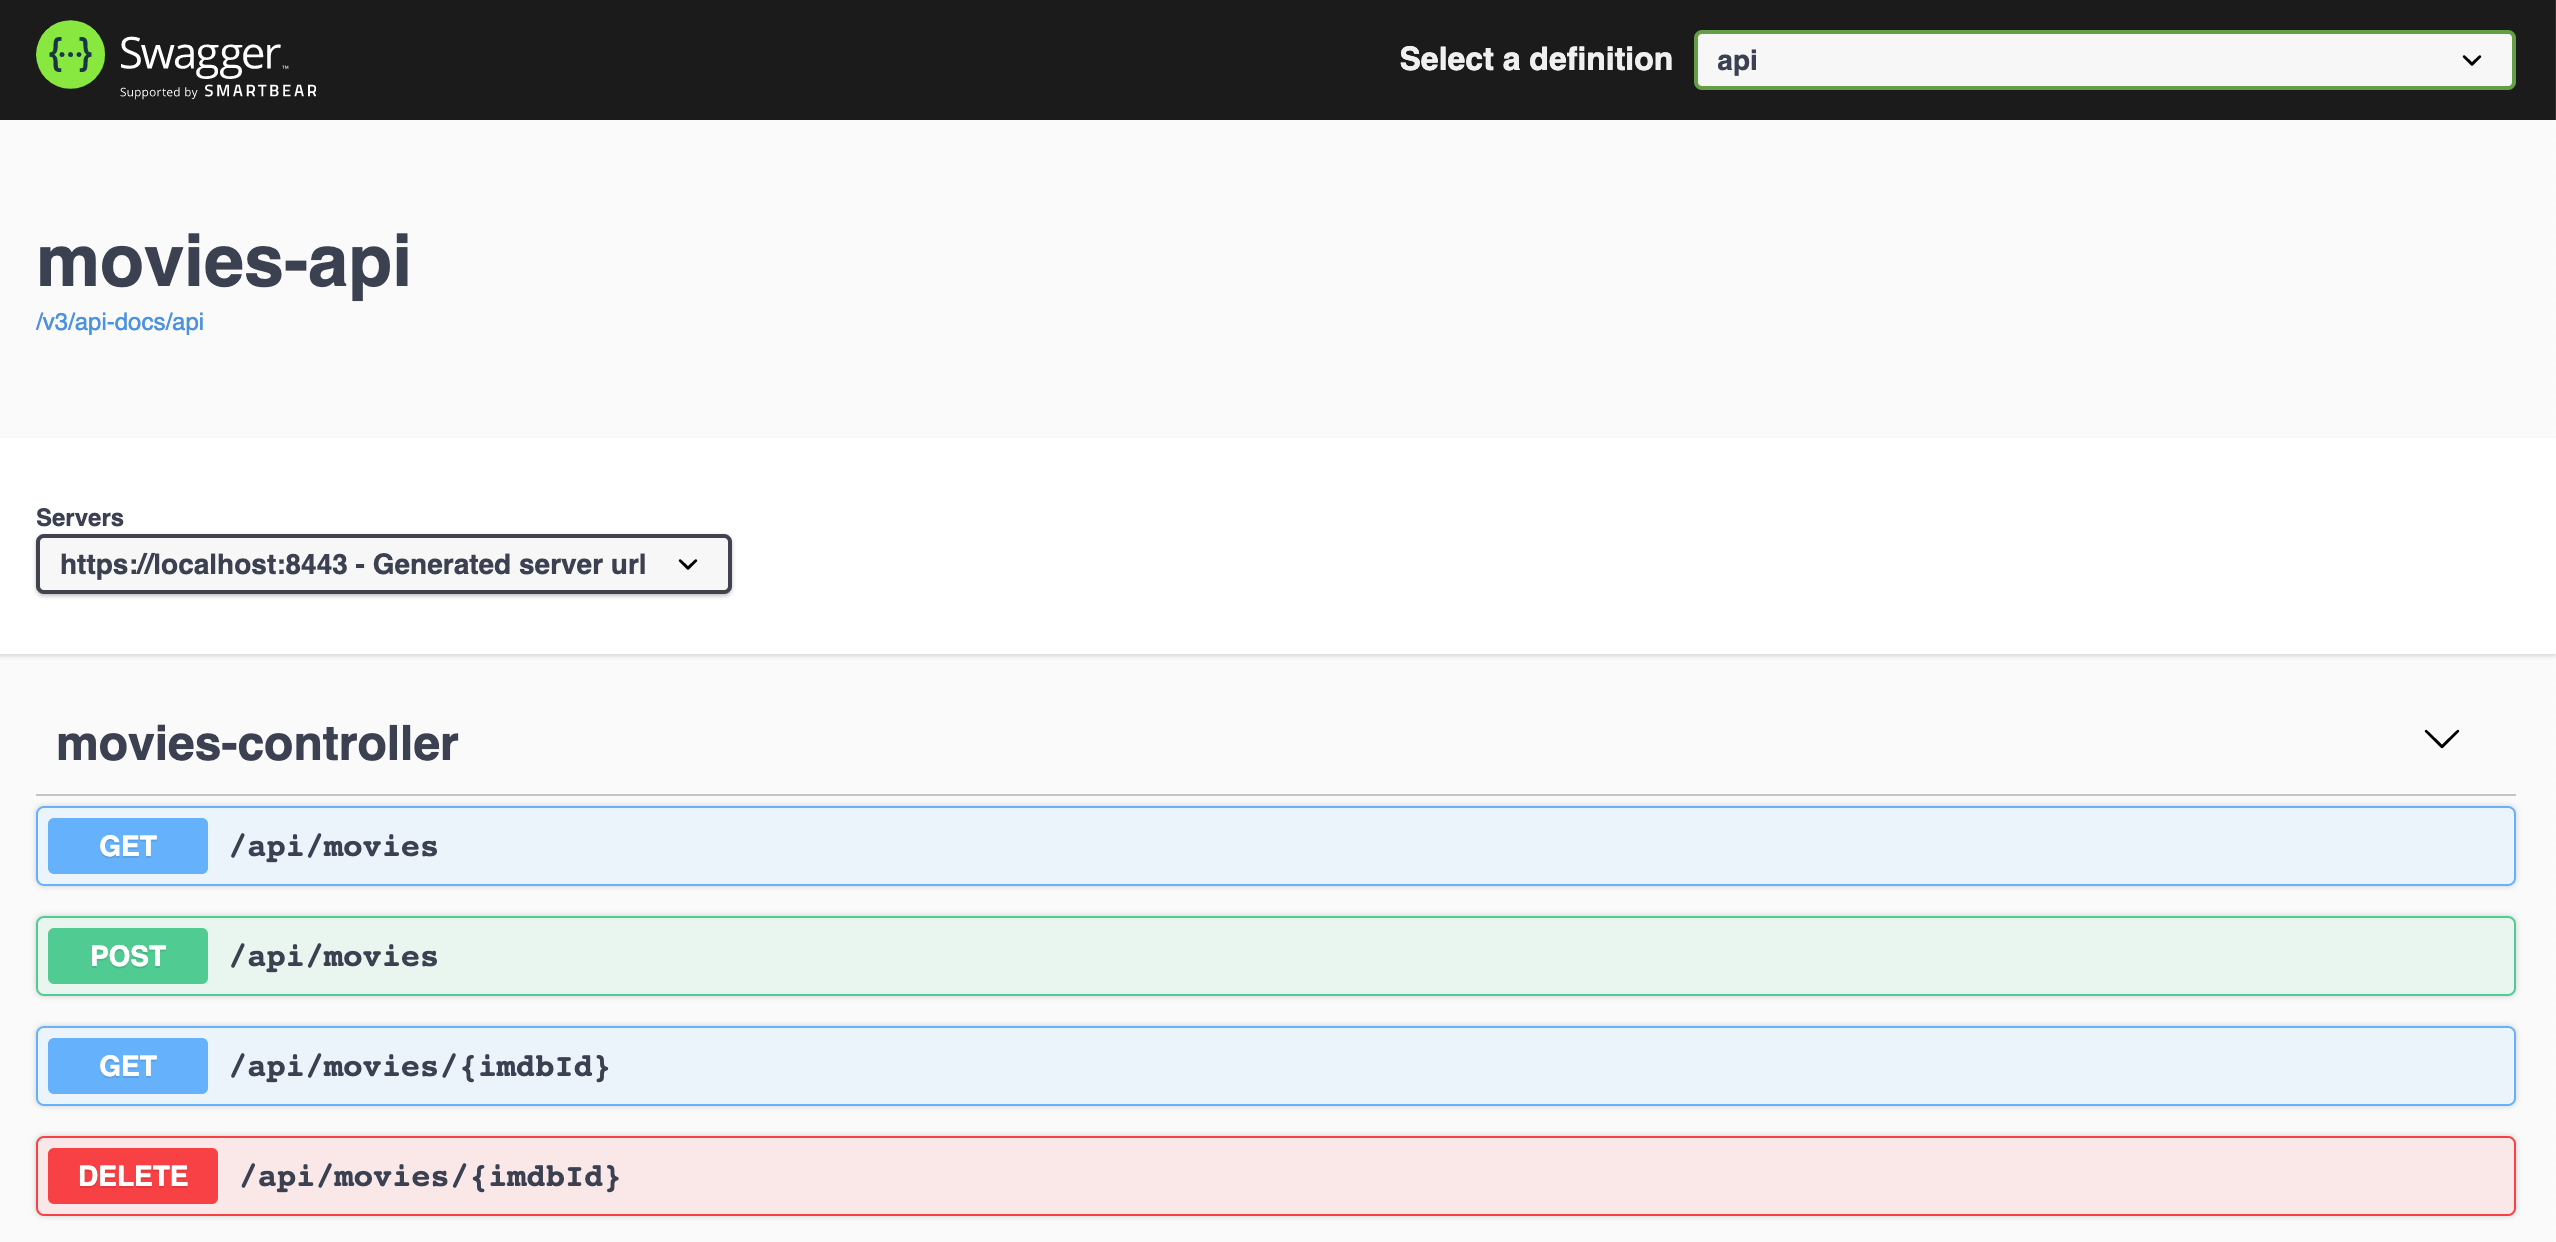
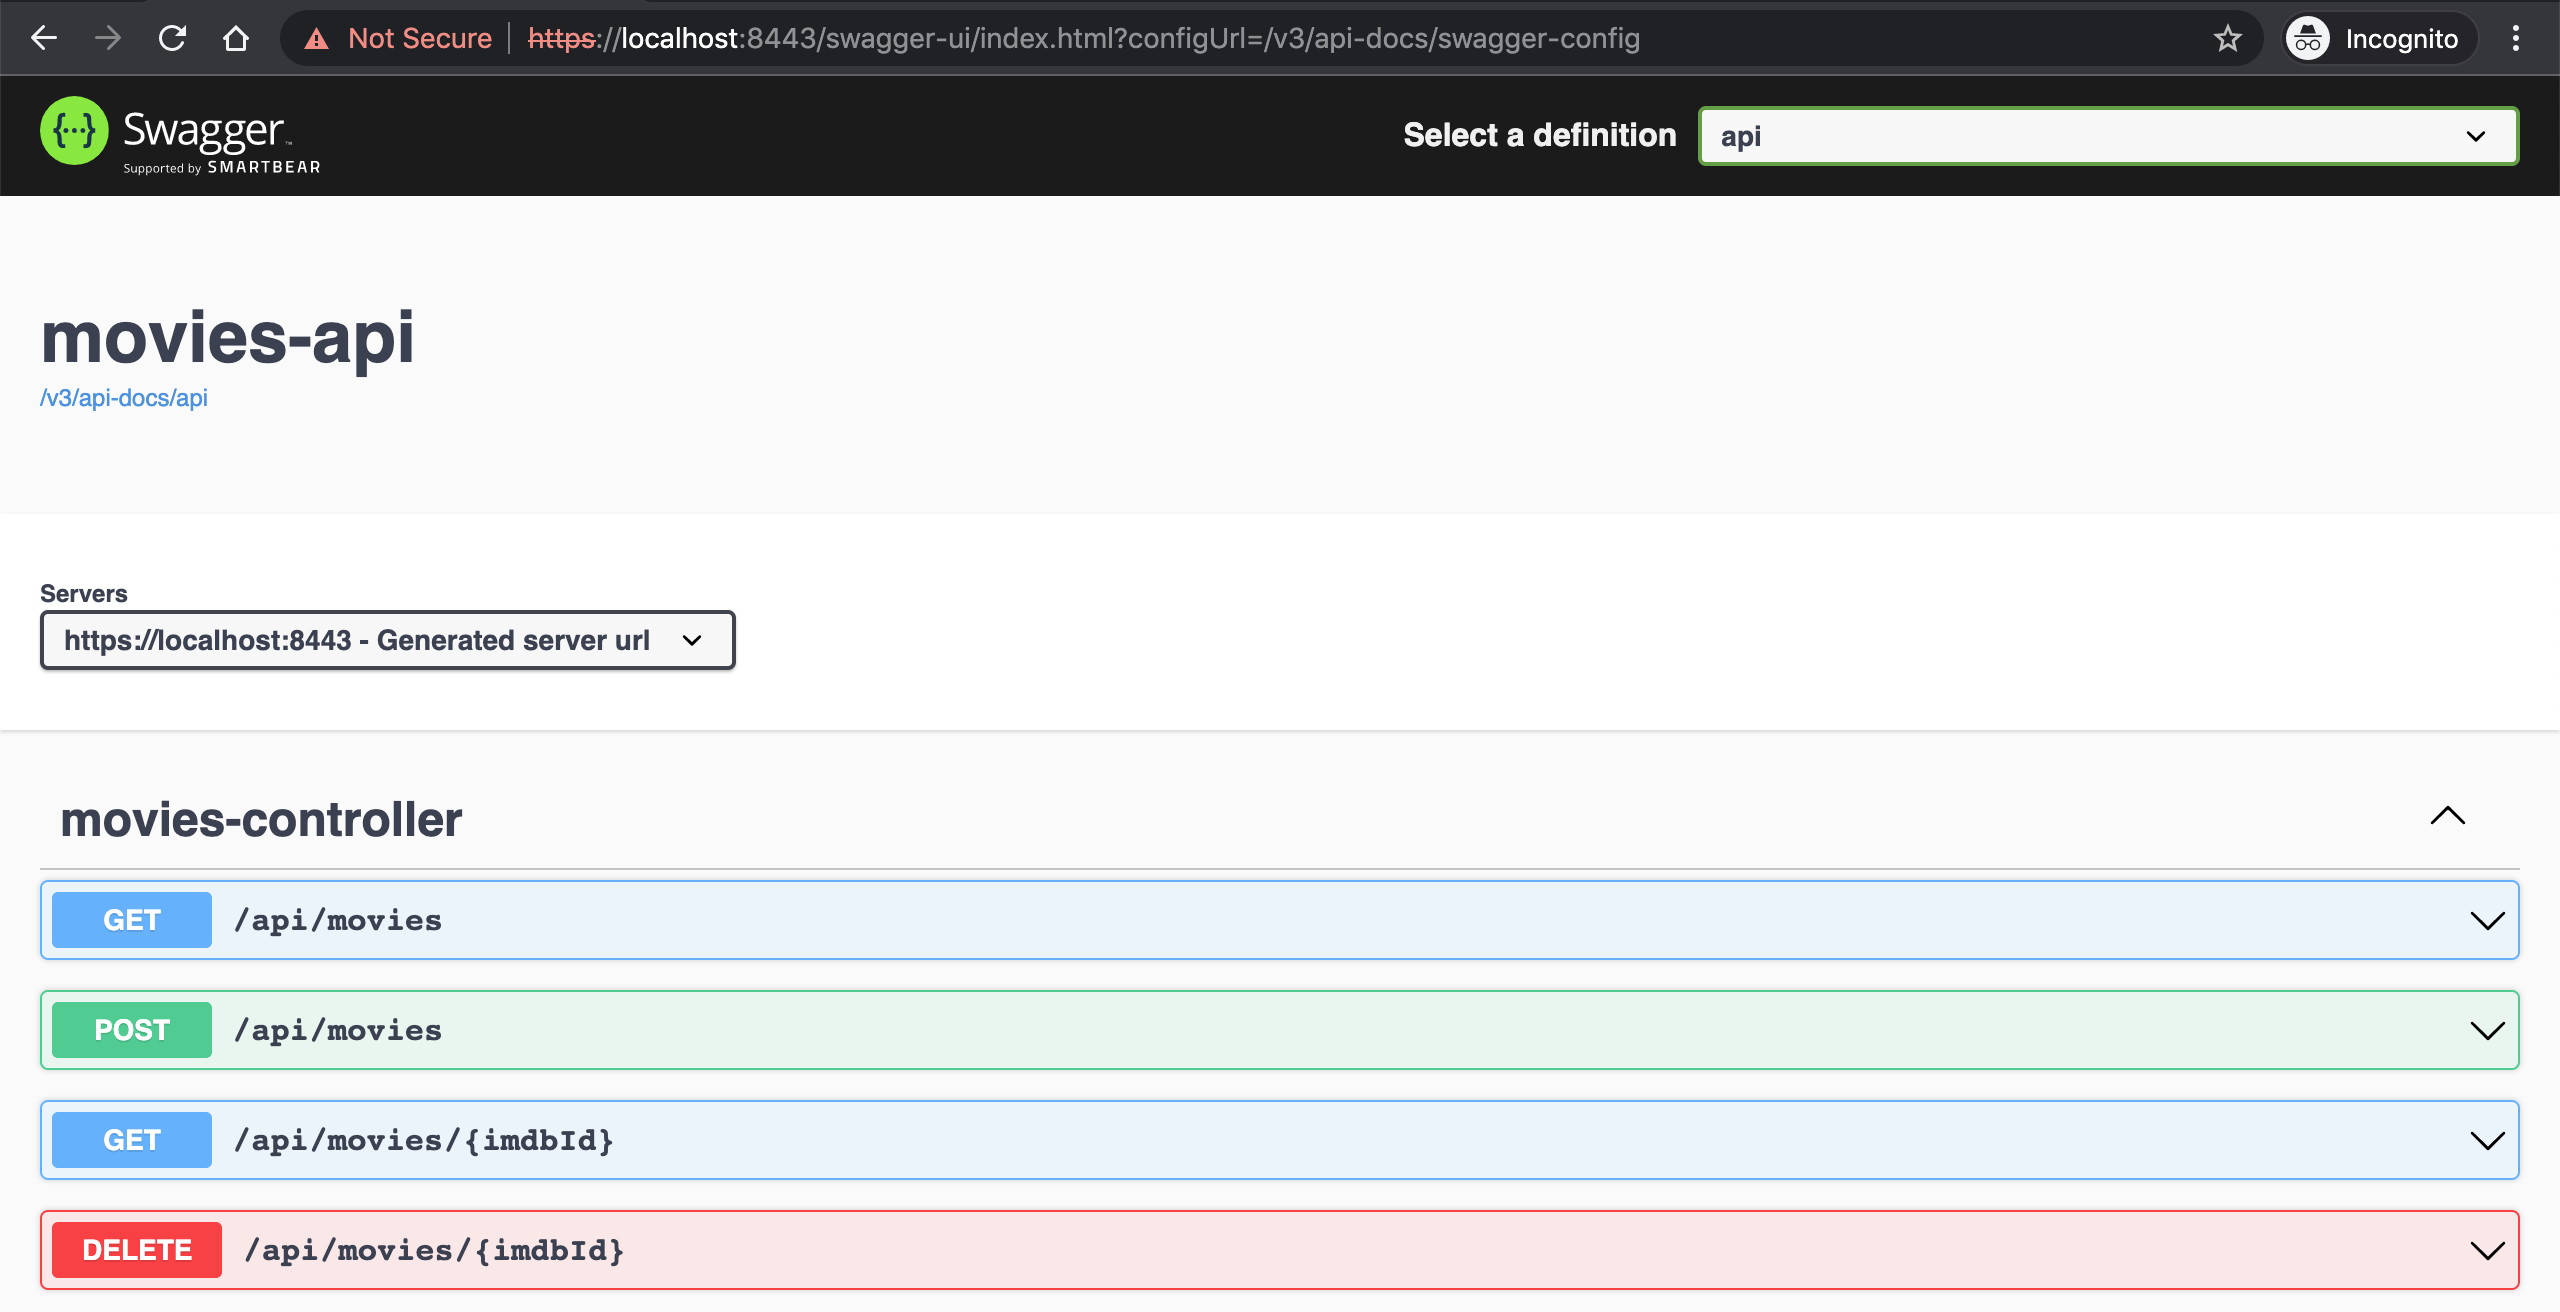
update README

diff --git a/README.md b/README.md
@@ -30,9 +30,47 @@ The goal of this project is to play with [`HTTPS`](https://en.wikipedia.org/wiki
     ./mvnw clean spring-boot:run
     ```
 
-  - The Swagger website is https://localhost:8443/swagger-ui.html
+  - Access Swagger website at https://localhost:8443/swagger-ui.html
+
+  - Once accessed for the first time, the following page will appear
+
+    ![your-connection-is-not-private-8443](documentation/your-connection-is-not-private-8443.png)
+
+  - Click `Advanced` > `Proceed to localhost (unsafe)`
+
+    Now, you should see
 
     ![movies-api-swagger](documentation/movies-api-swagger.png)
+  
+  - To re-enable the security warning saying `Your connection is not private` for `https://localhost:8443/swagger-ui.html`, click `Not Secure` (in the address bar) > `Re-enable warnings`
+
+- **movies-ui**
+
+  - Open a new terminal and navigate to `https-springboot-react/movies-ui` folder
+
+  - Execute the command below if you are running it for the first time
+    ```
+    npm install
+    ```
+
+  - To start `movies-ui` run
+    ```
+    npm start
+    ```
+
+  - Access https://localhost:3443
+
+  - Once accessed for the first time, the following page will appear
+
+    ![your-connection-is-not-private-3443](documentation/your-connection-is-not-private-3443.png)
+
+  - Click `Advanced` > `Proceed to localhost (unsafe)`
+
+    Now, you shoud see
+
+    ![movies-ui](documentation/movies-ui.png)
+  
+  - To re-enable the security warning saying `Your connection is not private` for `https://localhost:3443`, click `Not Secure` (in the address bar) > `Re-enable warnings`
 
 - **movies-shell**
 
@@ -52,27 +90,9 @@ The goal of this project is to play with [`HTTPS`](https://en.wikipedia.org/wiki
 
     ![movies-shell](documentation/movies-shell.png)
 
-- **movies-ui**
-
-  - Open a new terminal and navigate to `https-springboot-react/movies-ui` folder
-
-  - Execute the command below if you are running it for the first time
-    ```
-    npm install
-    ```
-
-  - To start `movies-ui` run
-    ```
-    npm start
-    ```
-
-  - The url is https://localhost:3443
-
-    ![movies-ui](documentation/movies-ui.png)
-
 ## Shutdown
 
-To stop `movies-api`, `movies-shell` and `movies-ui`, go to the terminal where they are running and press `Ctrl+C`
+To stop `movies-api`, `movies-ui` and `movies-shell`, go to the terminal where they are running and press `Ctrl+C`
 
 ## Create PKCS12 self-signed certificate
 
